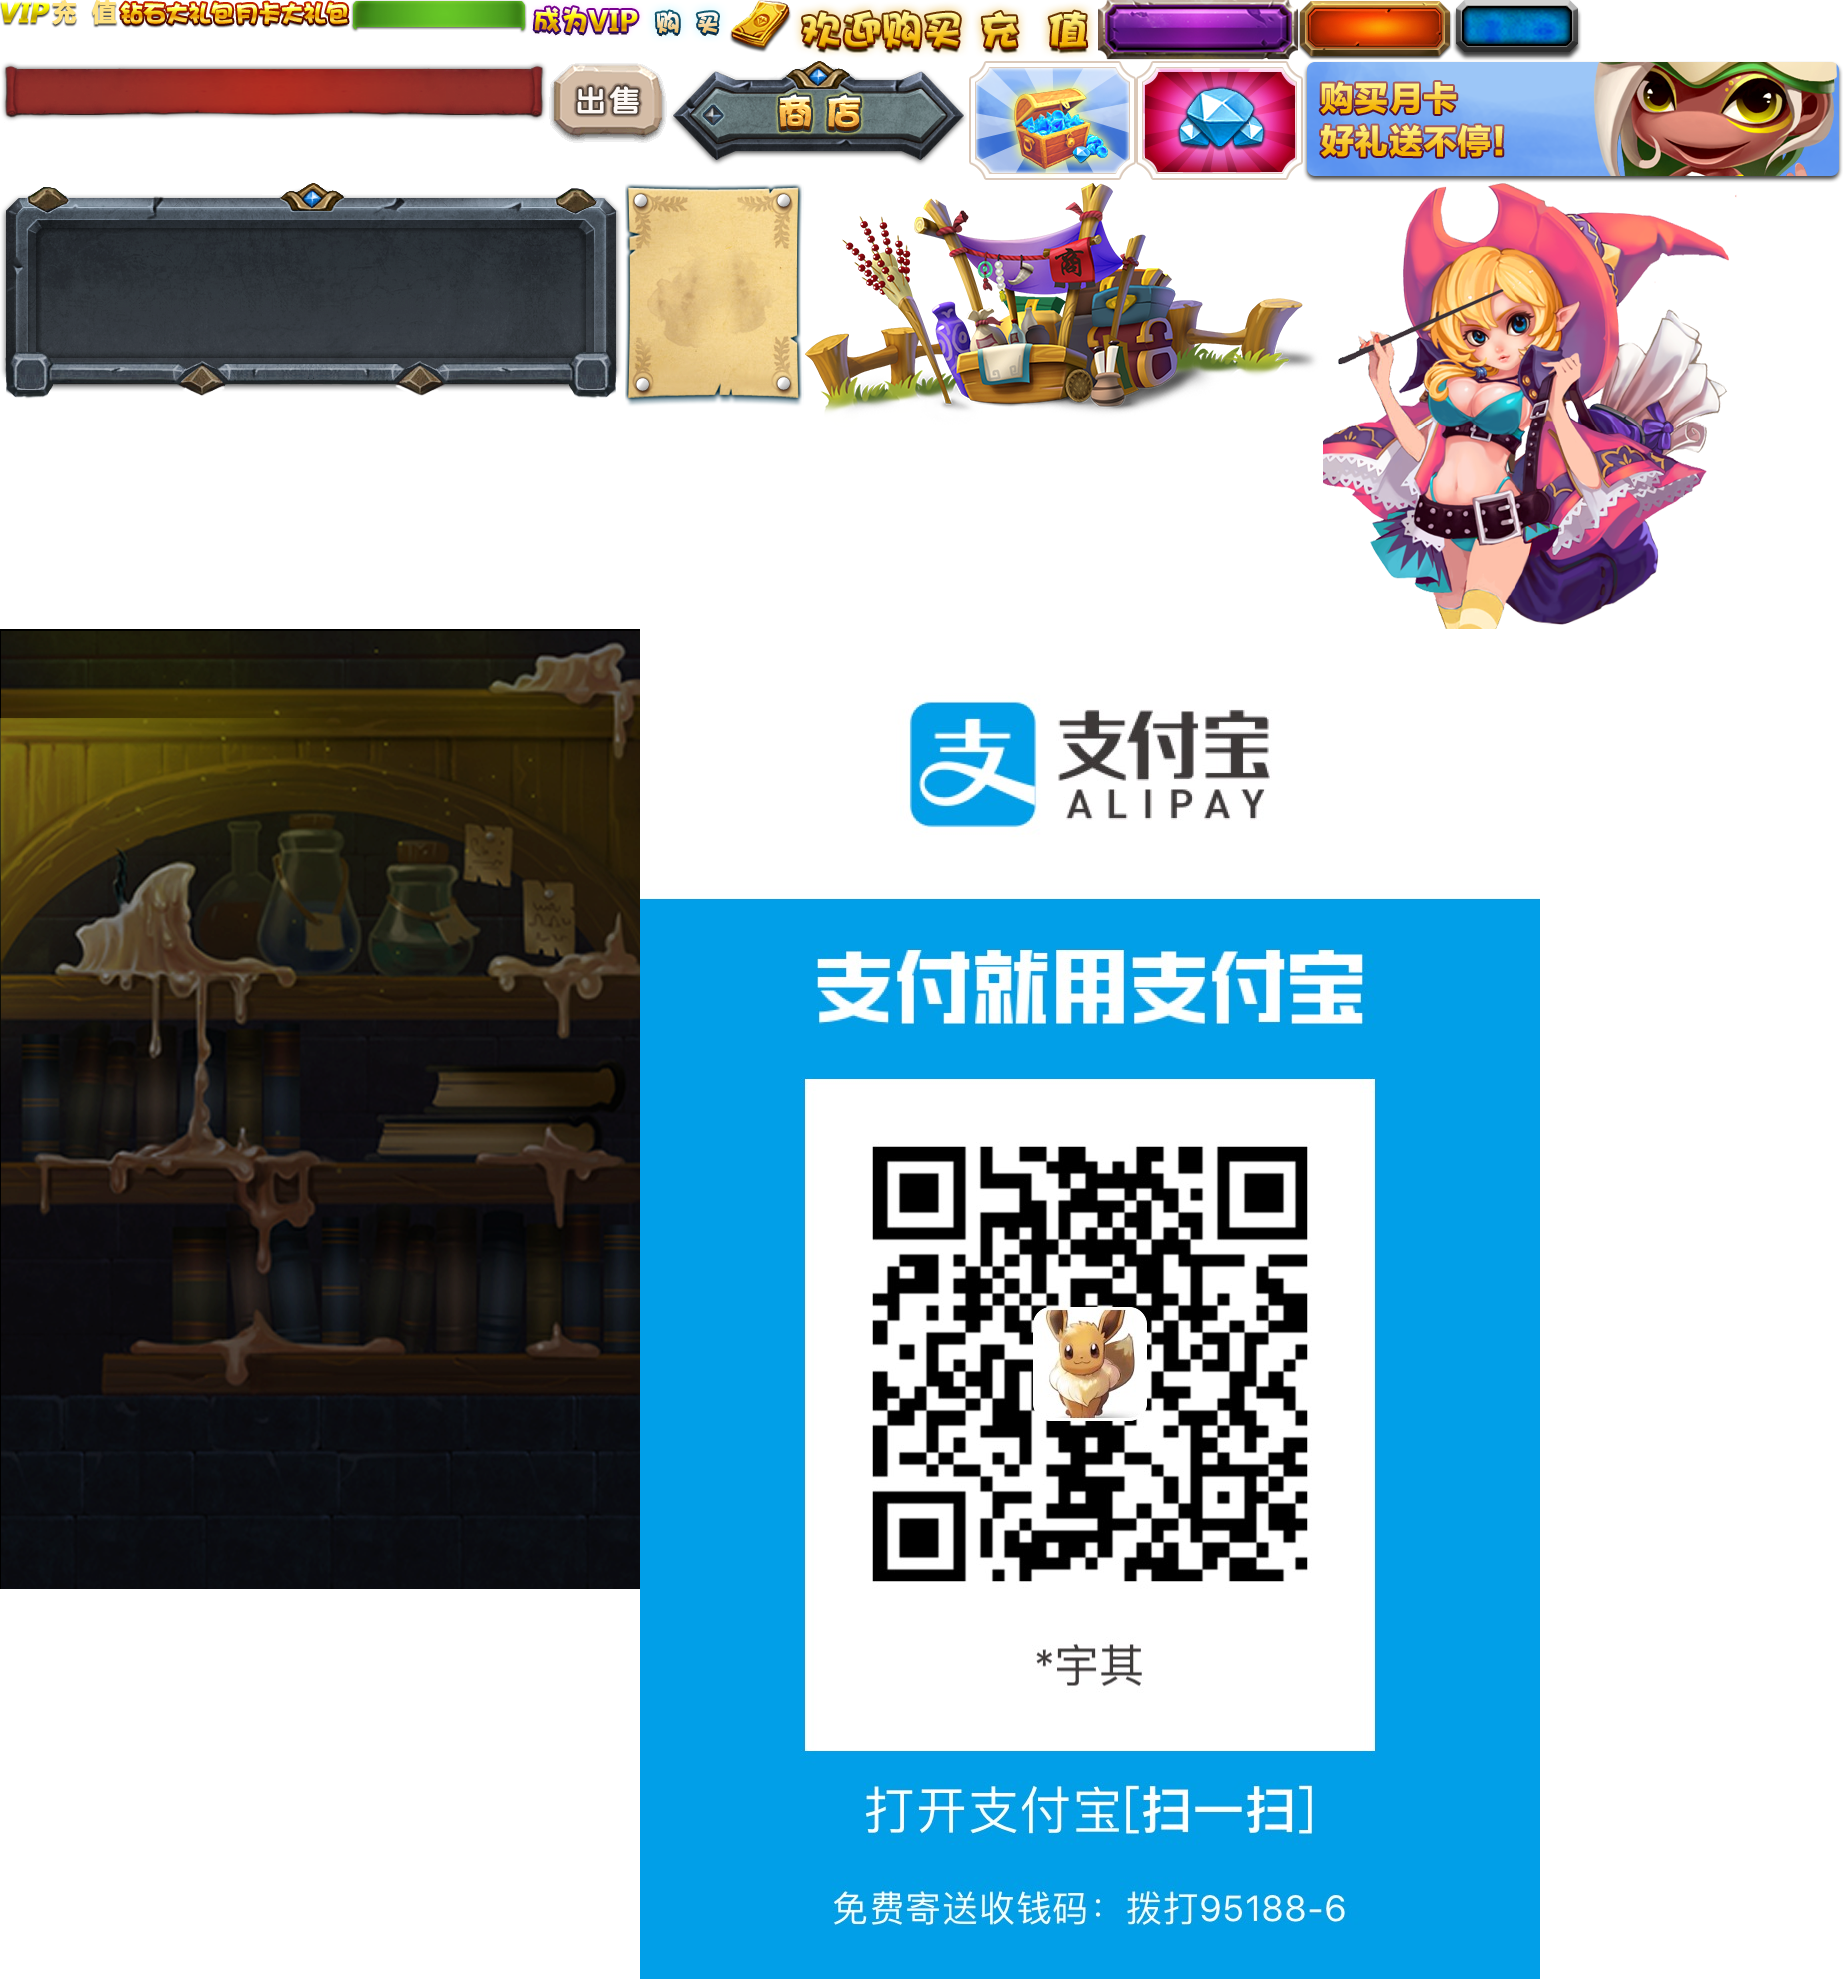
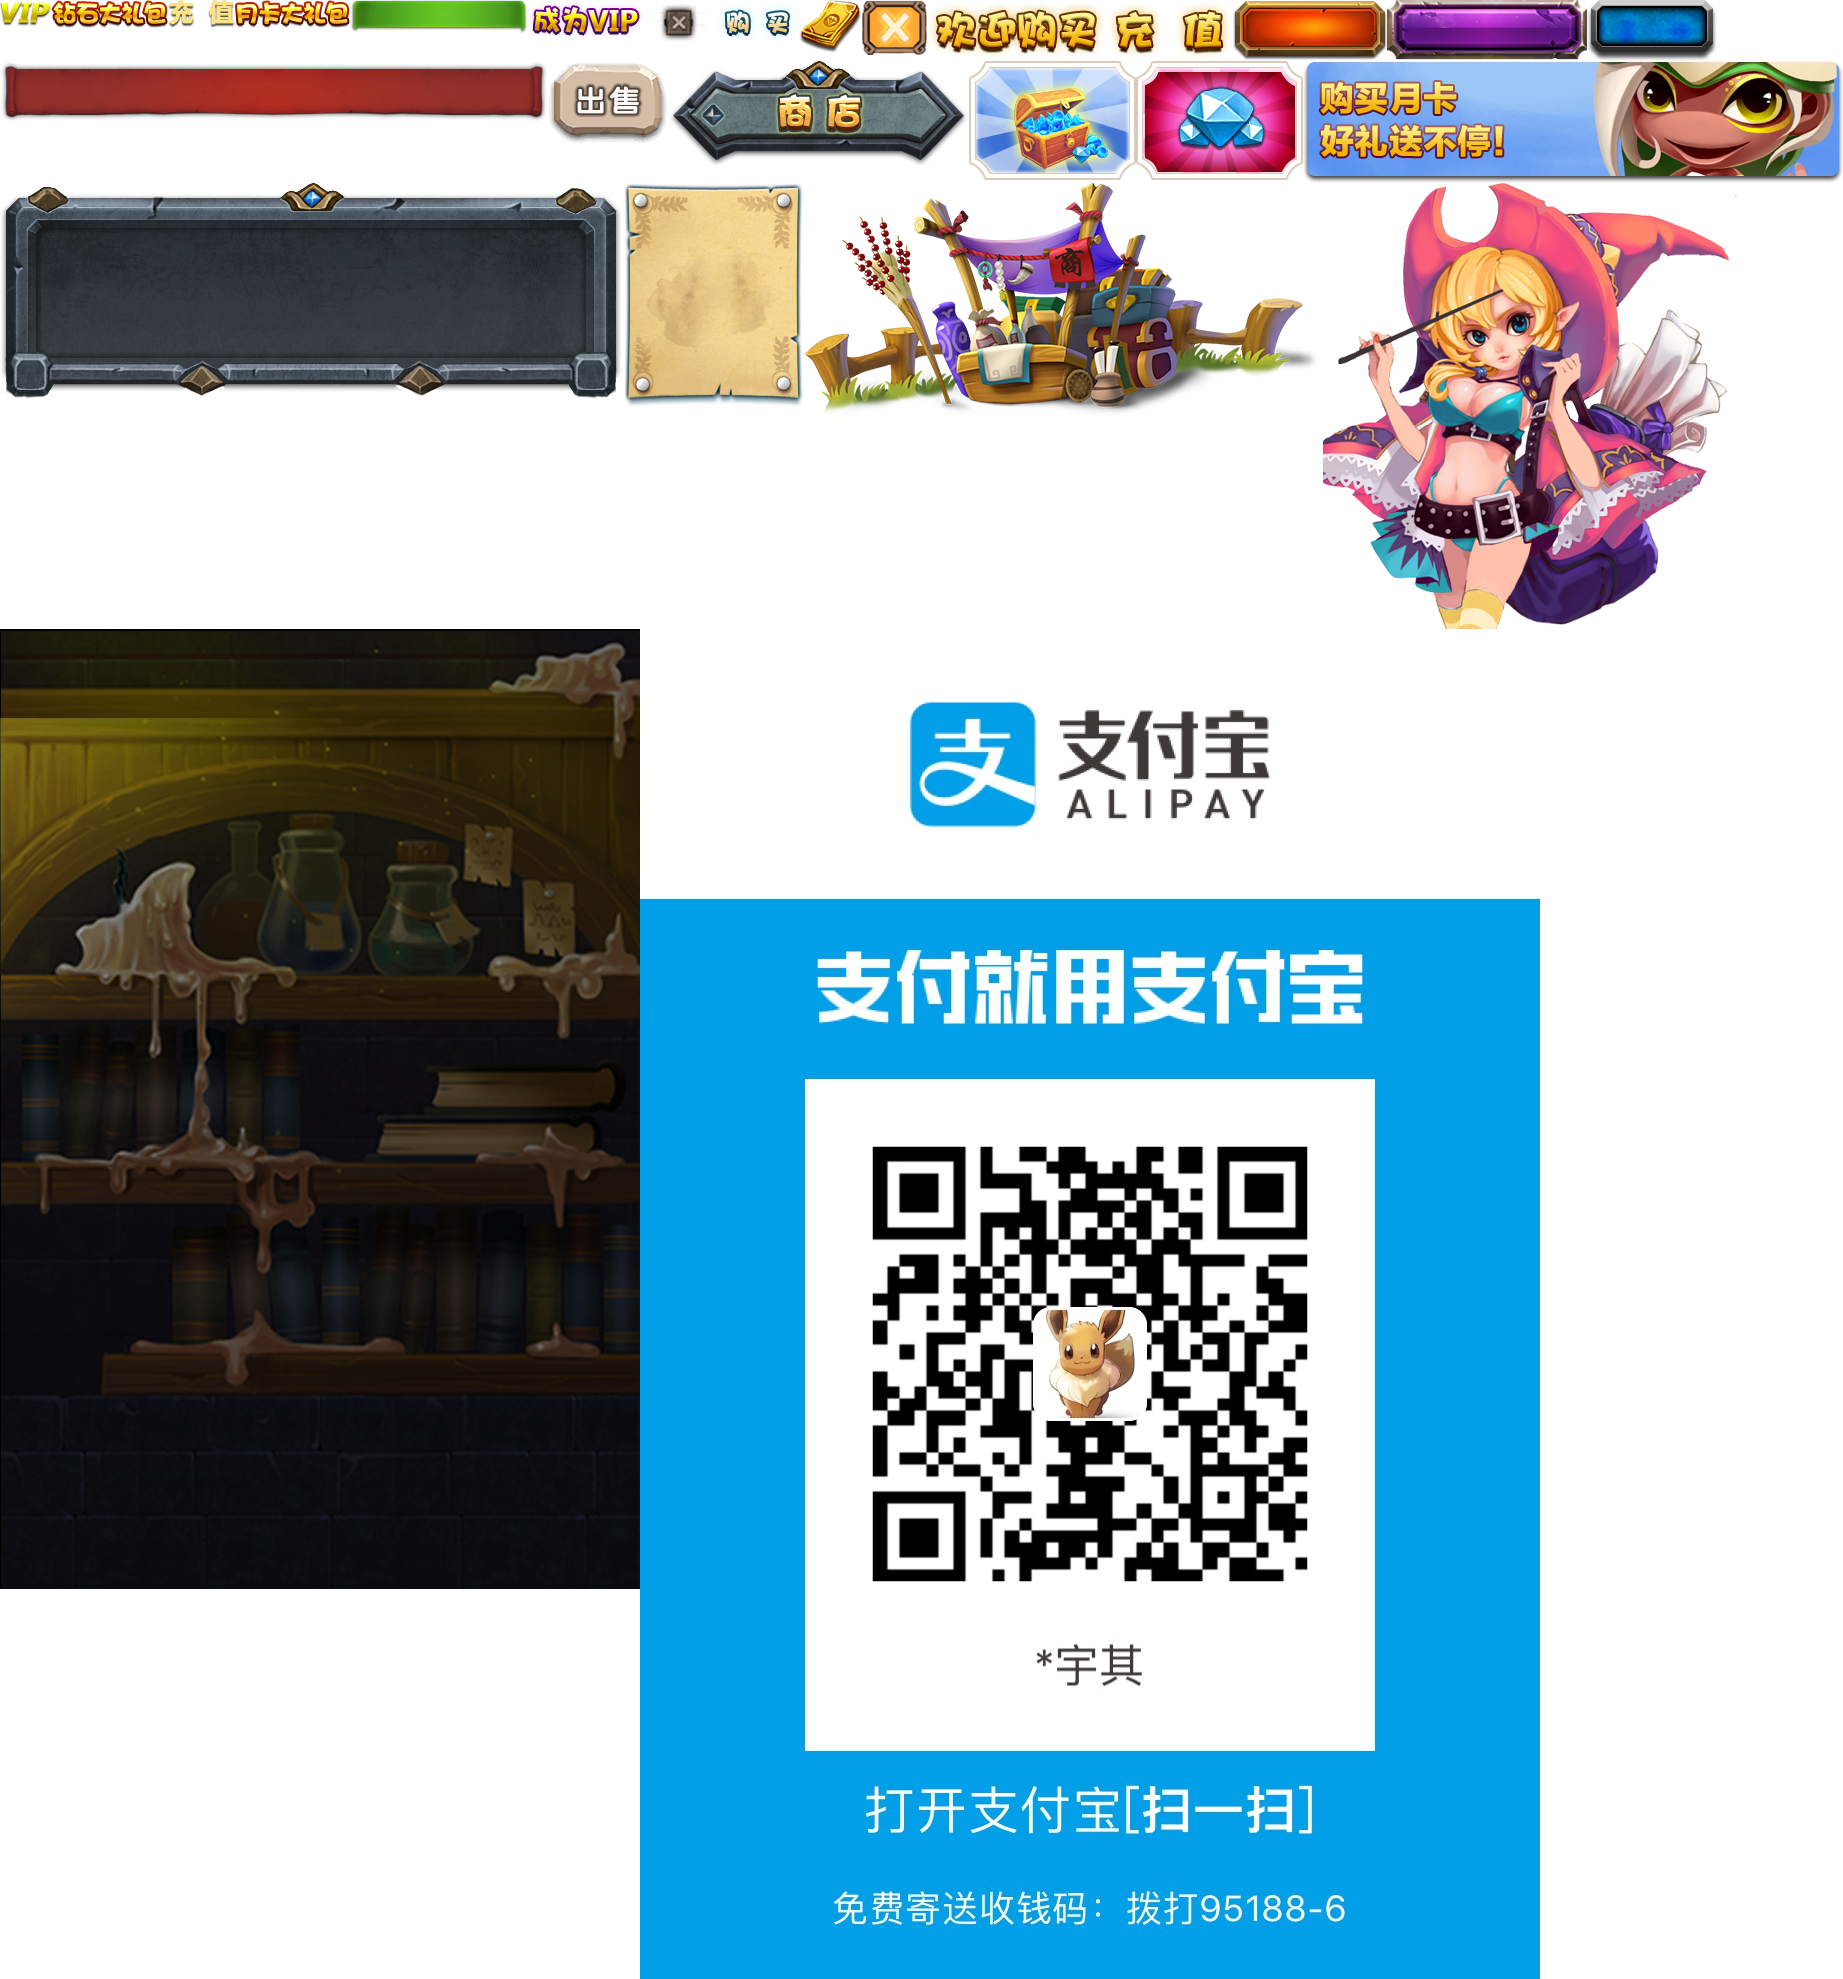
fix bug of StatusList

Changed region(s): [[0.3402, 0.0, 0.9278, 0.0308], [0.0309, 0.0, 0.1237, 0.0308]]

diff --git a/TheKingOfGlory/Classes/Model/StatusList.cpp b/TheKingOfGlory/Classes/Model/StatusList.cpp
@@ -7,16 +7,14 @@ bool StatusList::init()
 		return false;
 	}
 
-	hasList = true;
-
 	this->setScale(3.0);
 	
 	auto _closeButton = Button::create("Pictures/Store/closeButton1.png");
+	//_closeButton = Sprite::createWithSpriteFrameName("closeButton1.png");
 	_closeButton->setScale(0.5);
 	_closeButton->setScaleX(1.3);
-	_closeButton->setPosition(Vec2(160, 200));
 	_closeButton->setEnabled(true);
-	_closeButton->setSwallowTouches(false);
+	_closeButton->setSwallowTouches(true);
 
 	_closeButton->addTouchEventListener([=](Ref*pSender, Widget::TouchEventType type)
 	{
@@ -25,6 +23,8 @@ bool StatusList::init()
 			remove();
 		}
 	});
+	_closeButton->setPosition(Vec2(160, 200));
+
 	this->addChild(_closeButton,40);
 
 	auto localPlayer= Manager::getInstance()->playerManager->getLocalPlayer();
@@ -33,78 +33,70 @@ bool StatusList::init()
 	std::string context = "Level : ";
 	context.append(StringUtils::format("%d", localPlayer->getLevel()));
 	auto text1 = createText(context);
-	text1->setPosition(Vec2(mid, text1->getContentSize().height * 12));
+	text1->setPosition(Vec2(mid, text1->getContentSize().height * 15));
 	this->addChild(text1, 40);
 	
 	context = "HP : ";
 	context.append(StringUtils::format("%.2f / %.2f", localPlayer->getNowHPValue(), localPlayer->getHPValue()));
 	auto text2 = createText(context);
-	text2->setPosition(Vec2(mid, text2->getContentSize().height * 11));
+	text2->setPosition(Vec2(mid, text2->getContentSize().height * 14));
 	this->addChild(text2, 40);
 
 	context = "EXP : ";
 	context.append(StringUtils::format("%d / %d", localPlayer->getNowEXPValue(), localPlayer->getEXPValue()));
 	auto text3 = createText(context);
-	text3->setPosition(Vec2(mid, text3->getContentSize().height * 10));
+	text3->setPosition(Vec2(mid, text3->getContentSize().height * 13));
 	this->addChild(text3, 40);
 
 	context = "Damage : ";
 	context.append(StringUtils::format("%.0f", localPlayer->getDamage()));
 	auto text4 = createText(context);
-	text4->setPosition(Vec2(mid, text4->getContentSize().height * 9));
+	text4->setPosition(Vec2(mid, text4->getContentSize().height * 12));
 	this->addChild(text4, 40);
 
 	context = "Defend : ";
 	context.append(StringUtils::format("%.2f", localPlayer->getDefend()));
 	auto text5 = createText(context);
-	text5->setPosition(Vec2(mid, text5->getContentSize().height * 8));
+	text5->setPosition(Vec2(mid, text5->getContentSize().height * 11));
 	this->addChild(text5, 40);
 
 	context = "Defend : ";
 	context.append(StringUtils::format("%.2f", localPlayer->getDefend()));
 	auto text6 = createText(context);
-	text6->setPosition(Vec2(mid, text6->getContentSize().height * 7));
+	text6->setPosition(Vec2(mid, text6->getContentSize().height * 10));
 	this->addChild(text6, 40);
 
 	context = "Money : ";
 	context.append(StringUtils::format("%d", localPlayer->getMoney()));
 	auto text7 = createText(context);
-	text7->setPosition(Vec2(mid, text7->getContentSize().height * 6));
+	text7->setPosition(Vec2(mid, text7->getContentSize().height * 9));
 	this->addChild(text7, 40);
 
-	context = "select";
-	context.append(StringUtils::format(" %d to sell.", _choseEquipmentID));
-	_sellText= Text::create(context, "arial.ttf", 15);
-	_sellText->setPosition(Vec2(90, 40));
-	this->addChild(_sellText, 40);
 
-
-	setEquipmentPos();
-	
-	auto sellButton = Button::create("Pictures/Store/sellButton.png");
-	sellButton->setScale(0.2);
-	sellButton->setPosition(Vec2(90, 20));
-	sellButton->setEnabled(true);
-	sellButton->setSwallowTouches(true);
-
-	auto equipmentList = localPlayer->getEquipmentList();
-	sellButton->addTouchEventListener([=](Ref*pSender, Widget::TouchEventType type)
+	auto equipmentList = Manager::getInstance()->playerManager->getLocalPlayer()->getEquipmentList();
+	for (int i = 0; i < equipmentList.size(); i++)
 	{
-		if (type == Widget::TouchEventType::ENDED)
+		equipmentList.at(i)->setScale(0.2);
+		equipmentList.at(i)->setPosition(Vec2(40 + 20 * i, 70));
+		this->addChild(equipmentList.at(i), 40);
+
+		auto _sellButton = Button::create("Pictures/Store/sellButton.png");
+		_sellButton->setScale(0.2);
+		_sellButton->setEnabled(true);
+		_sellButton->setSwallowTouches(true);
+
+		_sellButton->addTouchEventListener([=](Ref*pSender, Widget::TouchEventType type)
 		{
-			if (_choseEquipmentID)
+			if (type == Widget::TouchEventType::ENDED)
 			{
-				sell(equipmentList.at(_choseEquipmentID - 1));
-				setEquipmentPos();
-				_choseEquipmentID = 0;
-				updateSellText();
+				sell(equipmentList.at(i));
+				_sellButton->setEnabled(false);
+				_sellButton->removeFromParent();
 			}
-		}
-	});
-	this->addChild(sellButton, 40);
-
-	createListener();
-
+		});
+		_sellButton->setPosition(Vec2(40 + 20 * i, 50));
+		this->addChild(_sellButton, 40);
+	}
 	return true;
 }
 
@@ -122,7 +114,7 @@ StatusList*StatusList::createStatusList()
 
 Text* StatusList::createText(std::string context)
 {
-	auto text = Text::create(context, "ConcertOne-Regular.ttf", 15);
+	auto text = Text::create(context, "fonts/ConcertOne-Regular.ttf", 15);
 	text->setScaleX(0.5);
 	return text;
 }
@@ -131,51 +123,8 @@ void StatusList::remove()
 {
 	this->removeAllChildrenWithCleanup(true);
 	this->removeFromParent();
-	//_sellListener->setEnabled(false);
-	Director::getInstance()->getEventDispatcher()->removeEventListener(_sellListener);
 	hasList = false;
 }
-
-void StatusList::createListener()
-{
-	auto&sellListener = _sellListener;
-	sellListener = EventListenerTouchOneByOne::create();
-	sellListener->onTouchBegan = CC_CALLBACK_2(StatusList::onTouchBegin, this);
-	sellListener->onTouchEnded = CC_CALLBACK_2(StatusList::onTouchEnded, this);
-	sellListener->setEnabled(true);
-	sellListener->setSwallowTouches(true);
-	Director::getInstance()->getEventDispatcher()->addEventListenerWithFixedPriority(_sellListener, 10);
-}
-
-bool StatusList::onTouchBegin(Touch*touch, Event*event)
-{
-	Vec2 touchPos = this->convertToNodeSpace(touch->getLocation());
-	Rect rect = Rect(0, 0, this->getContentSize().width, this->getContentSize().height);
-	if (rect.containsPoint(touchPos))
-	{
-		return true;
-	}
-	return false;
-}
-
-bool StatusList::onTouchEnded(Touch*touch, Event*event)
-{
-	auto equipmentList = Manager::getInstance()->playerManager->getLocalPlayer()->getEquipmentList();
-	
-	for (int i = 0; i < equipmentList.size(); i++)
-	{
-		Vec2 touchPos = equipmentList.at(i)->convertToNodeSpace(touch->getLocation());
-		Rect rect = Rect(0, 0, equipmentList.at(i)->getContentSize().width, equipmentList.at(i)->getContentSize().height);
-		if (rect.containsPoint(touchPos))
-		{
-			_choseEquipmentID = i + 1;
-			updateSellText();
-			return true;
-		}
-	}
-	return false;
-}
-
 
 void StatusList::sell(EquipmentBase*equip)
 {
@@ -189,21 +138,3 @@ void StatusList::sell(EquipmentBase*equip)
 	equip->removeFromParent();
 }
 
-void StatusList::updateSellText()
-{
-	std::string  context= "select";
-	context.append(StringUtils::format(" %d to sell.", _choseEquipmentID));
-	_sellText->setString(context);
-}
-
-void StatusList::setEquipmentPos()
-{
-	auto equipmentList = Manager::getInstance()->playerManager->getLocalPlayer()->getEquipmentList();
-	for (int i = 0; i < equipmentList.size(); i++)
-	{
-		if (equipmentList.at(i)->getParent())equipmentList.at(i)->removeFromParent();
-		equipmentList.at(i)->setScale(0.2);
-		equipmentList.at(i)->setPosition(Vec2(40 + 20 * i, 70));
-		this->addChild(equipmentList.at(i), 40);
-	}
-}

diff --git a/TheKingOfGlory/Classes/Model/store/Store.cpp b/TheKingOfGlory/Classes/Model/store/Store.cpp
@@ -116,7 +116,7 @@ void Store::createBg()
 
 	if (!VIP)
 	{
-		VIP = true;
+		
 		_vipButton = Button::create("Pictures/Store/text_be_vip.png");
 		_vipButton->setScale(2);
 		_vipButton->setPosition(Vec2(_bg->getContentSize().width / 2, _vipButton->getContentSize().height));
@@ -127,6 +127,7 @@ void Store::createBg()
 		{
 			if (type == Widget::TouchEventType::ENDED)
 			{
+				VIP = true;
 				auto vipSprite = Sprite::createWithSpriteFrameName("vip.png");
 				vipSprite->setPosition(Vec2(_bg->getContentSize().width / 2, _bg->getContentSize().height / 2));
 				vipSprite->setScale(0.8);

diff --git a/TheKingOfGlory/Classes/Model/StatusList.h b/TheKingOfGlory/Classes/Model/StatusList.h
@@ -21,16 +21,11 @@ private:
 
 	Text* createText(std::string context);
 	void remove();
-	void createListener();
-	bool onTouchBegin(Touch*touch, Event*event);
-	bool onTouchEnded(Touch*touch, Event*event);
+	//bool onTouchEnded(Touch*touch, Event*event);
 
 	int _choseEquipmentID;
 	void sell(EquipmentBase*equip);
 	EventListenerTouchOneByOne*_sellListener;
 
-	Text*_sellText;
-	void updateSellText();
 
-	void setEquipmentPos();
 };

diff --git a/TheKingOfGlory/Classes/Model/store/EquipmentBase.cpp b/TheKingOfGlory/Classes/Model/store/EquipmentBase.cpp
@@ -156,6 +156,7 @@ void EquipmentBase::removeBg()
 void EquipmentBase::buy()
 {
 	auto _localplayer = Manager::getInstance()->playerManager->getLocalPlayer();
+	if (!_localplayer)return;
 	if (_localplayer->getEquipmentCnt() < PLAYER_MAX_EQUIPMENT_CNT)
 	{
 		if (_localplayer->getMoney() >= getCostMoney())
@@ -190,3 +191,4 @@ void EquipmentBase::buy()
 		log("You already have three equipments!");
 	}
 }
+

diff --git a/TheKingOfGlory/Classes/Scene/GameScene.cpp b/TheKingOfGlory/Classes/Scene/GameScene.cpp
@@ -31,7 +31,7 @@ void GameScene::createStatusButton()
 		if (type == Widget::TouchEventType::ENDED)
 		{
 			if (hasList)return;
-			auto list =StatusList::createStatusList();
+			auto list = StatusList::createStatusList();
 			list->setPosition(Vec2(this->getContentSize().width / 2, this->getContentSize().height / 2));
 			this->addChild(list, 4);
 		}

diff --git a/TheKingOfGlory/Classes/Manager/PlayerManager.cpp b/TheKingOfGlory/Classes/Manager/PlayerManager.cpp
@@ -69,6 +69,11 @@ Map<std::string, Player*>& PlayerManager::getPlayerList()
 
 Player * PlayerManager::getLocalPlayer()
 {
+	if (!_localPlayer)
+	{
+		auto delay = DelayTime::create(5.0);
+		this->runAction(delay);
+	}
 	return _localPlayer;
 }
 

diff --git a/TheKingOfGlory/Classes/Manager/PlayerManager.h b/TheKingOfGlory/Classes/Manager/PlayerManager.h
@@ -29,7 +29,7 @@ public:
 private:
 	cocos2d::Map<std::string, Player*> _playerList;
 
-	Player* _localPlayer;
+	Player* _localPlayer=NULL;
 	
 	void addCustomEvent();
 	void initPlayer(float delta);

diff --git a/TheKingOfGlory/Classes/Model/store/EquipmentBase.h b/TheKingOfGlory/Classes/Model/store/EquipmentBase.h
@@ -49,7 +49,8 @@ public:
 
 	void removeBg();
 	void buy();
-	void sell();
+	
+	//listener
 
 	//static void getLocalPlayer();
 
